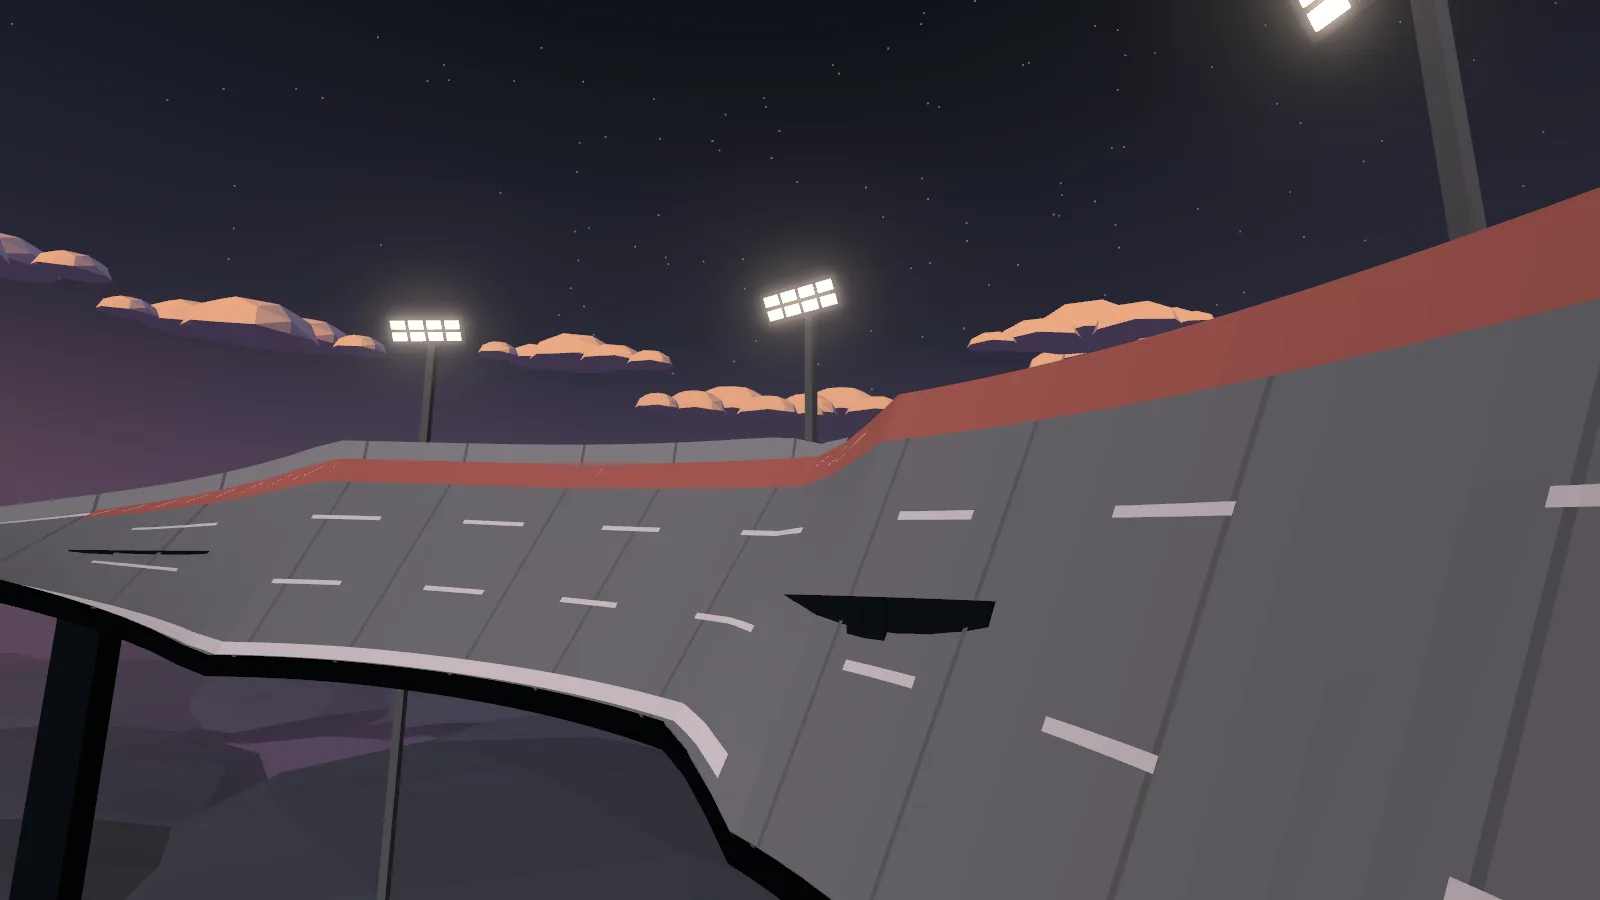
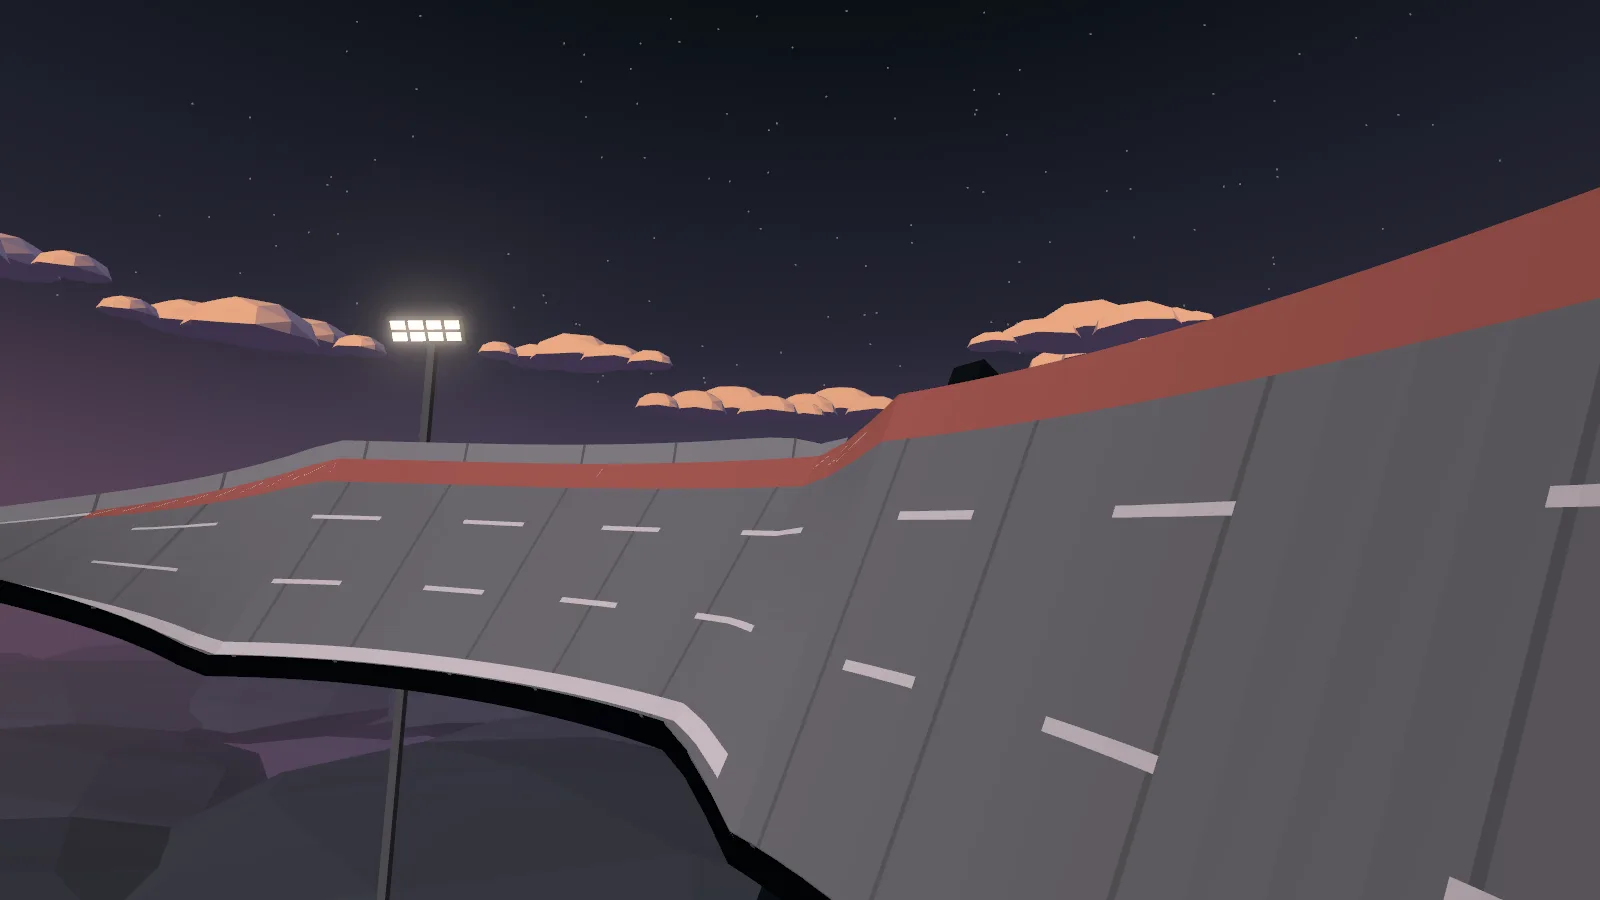
feat: Velodrome map options and its own menu picture
- knobs: Length (E), Gaps (A), Boost pads (V), Half-pipes (P), Wall ride switch (R); normal levels build the plain map
- menu picture re-shot on the merged map

diff --git a/src/worldgen/kinds/velodrome.ts b/src/worldgen/kinds/velodrome.ts
@@ -1,8 +1,11 @@
 import { generate_sky, SKY, type SkyRecipe } from "../sky";
 import { SIZE, VELODROME_VERSION, WorldKind } from "../types";
 import { kind_def, LAND_GRIP } from "./kind-def";
+import { knob, tune, type Knob } from "./options";
 
 const DEG = Math.PI / 180;
+const PIPES = { most: 2, bank: [28 * DEG, 35 * DEG], length: [140, 180] } as const;
+const WALL = { bank: [60 * DEG, 64 * DEG], hold: [40, 60] } as const;
 
 // docs/plan/wall-ride.md: 45-55° on the racing line, a 60-70° kick at each bowl's middle, under the 75° past which a soft car
 // can fall through the deck. The bus scrapes from 40° and is out; the Raijin scrapes its floor in a bowl but holds its line.
@@ -21,10 +24,18 @@ const VELODROME: SkyRecipe = {
   open: [0.1, 0.2],
   length: [2400, 5200],
   bowls: { angle: [Math.PI, 1.2 * Math.PI], radius: [40, 60], bank: [45 * DEG, 55 * DEG], kick: [60 * DEG, 70 * DEG] },
-  pipes: { most: 2, bank: [28 * DEG, 35 * DEG], length: [140, 180] },
-  wall: { bank: [60 * DEG, 64 * DEG], hold: [40, 60] },
+  pipes: PIPES,
+  wall: WALL,
   excludes: ["bus"],
 };
+
+const VELODROME_KNOBS: readonly Knob<SkyRecipe>[] = [
+  knob<SkyRecipe, SkyRecipe["length"]>({ field: "E", name: "Length", help: "How long a lap runs.", labels: ["Short", "Normal", "Long"], normal: 1, values: [[2400, 4400], VELODROME.length, [3800, 6400]], set: (r, length) => ({ ...r, length }) }),
+  knob<SkyRecipe, number>({ field: "A", name: "Gaps", help: "Gap jumps across open sky.", labels: ["None", "Normal", "More"], normal: 1, values: [0, VELODROME.gaps, 2], set: (r, gaps) => ({ ...r, gaps }) }),
+  knob<SkyRecipe, number>({ field: "V", name: "Boost pads", help: "Pads that kick the car forward.", labels: ["None", "Normal", "More"], normal: 1, values: [0, VELODROME.pads, 5], set: (r, pads) => ({ ...r, pads }) }),
+  knob<SkyRecipe, SkyRecipe["pipes"]>({ field: "P", name: "Half-pipes", help: "Straights that swing up one side, then the other.", labels: ["None", "Normal", "More"], normal: 1, values: [null, PIPES, { ...PIPES, most: 4 }], set: (r, pipes) => ({ ...r, pipes }) }),
+  knob<SkyRecipe, SkyRecipe["wall"]>({ field: "R", name: "Wall ride", help: "One bowl held steep with its high rail off.", labels: ["Off", "On"], switch: true, normal: 1, values: [null, WALL], set: (r, wall) => ({ ...r, wall }) }),
+];
 
 export const velodrome = kind_def({
   kind: WorldKind.VELODROME,
@@ -32,8 +43,8 @@ export const velodrome = kind_def({
   tag: "velo",
   version: VELODROME_VERSION,
   size: SIZE,
-  generate: (seed) => generate_sky(seed, VELODROME, VELODROME),
-  options: [],
+  generate: (seed, levels) => generate_sky(seed, tune(VELODROME, VELODROME_KNOBS, levels), VELODROME),
+  options: VELODROME_KNOBS,
   recipe: null,
   open_ground: false,
   rails: true,

diff --git a/src/worldgen/velodrome.test.ts b/src/worldgen/velodrome.test.ts
@@ -1,7 +1,7 @@
 /// <reference types="bun" />
 import { expect, test } from "bun:test";
 import { sweep } from "../sweep";
-import { generate_world } from "./kinds/kinds";
+import { generate_world, KINDS } from "./kinds/kinds";
 import { generate_sky, rail_open } from "./sky";
 import { DECK_STRIDE, RouteKind, WorldKind } from "./types";
 
@@ -58,6 +58,35 @@ test("every lap has a half-pipe: a straight that banks up each side in turn", ()
       return Math.max(...banks) > 25 * DEG && Math.min(...banks) < -25 * DEG;
     });
     expect(pipe).toBe(true);
+  }
+});
+
+const OPTIONS = KINDS.velodrome.options;
+const with_level = (name: string, level: number) => OPTIONS.map((o) => (o.name === name ? level : o.normal));
+
+function pipes(world: (typeof worlds)[number]): number {
+  const line = line_of(world);
+  const at = Array.from({ length: line.length / DECK_STRIDE }, (_, i) => i * DECK_STRIDE);
+  return (world.deck?.pieces ?? []).filter((p) => p.kind === "straight" && at.some((o) => line[o + 8] > p.s0 && line[o + 8] < p.s0 + p.length && Math.abs(line[o + 5]) > 25 * DEG)).length;
+}
+
+test("the normal levels build the plain velodrome", () => {
+  expect(generate_world(2, WorldKind.VELODROME, OPTIONS.map((o) => o.normal)).road).toEqual(generate_world(2, WorldKind.VELODROME).road);
+});
+
+test("Half-pipes none lays no pipe, Wall ride off leaves no steep bank without its rail", () => {
+  for (const seed of [0, 2, 3]) {
+    expect(pipes(generate_world(seed, WorldKind.VELODROME, with_level("Half-pipes", 0)))).toBe(0);
+    const world = generate_world(seed, WorldKind.VELODROME, with_level("Wall ride", 0));
+    const line = line_of(world);
+    for (let o = 0; o < line.length; o += DECK_STRIDE) expect(Math.abs(line[o + 5]) >= 60 * DEG && rail_open(world.deck?.open ?? [], line[o + 8], Math.sign(line[o + 5]))).toBe(false);
+  }
+});
+
+test("Boost pads and Gaps at none build a track without them", () => {
+  for (const seed of [0, 2, 3]) {
+    expect(generate_world(seed, WorldKind.VELODROME, with_level("Boost pads", 0)).deck?.pieces.filter((p) => p.kind === "pad")).toEqual([]);
+    expect(generate_world(seed, WorldKind.VELODROME, with_level("Gaps", 0)).deck?.pieces.filter((p) => p.kind === "gap")).toEqual([]);
   }
 });
 

diff --git a/src/worldgen/kinds/options.test.ts b/src/worldgen/kinds/options.test.ts
@@ -50,7 +50,7 @@ const read = (text: string, kind?: WorldKind) => {
 
 test("map code field letters and preset chars never move", () => {
   const fields = Object.fromEntries(Object.values(WorldKind).map((kind) => [kind, KINDS[kind].options.map((o) => o.field).join("")]));
-  expect(fields).toEqual({ island: "EQYJCXHTGPZW", sky: "EQAVF", desert: "JCXHDKZW", mainland: "W", alpine: "YJCHTGZW", tundra: "JCHTZ", volcano: "", rooftops: "", dunes: "", icecanyon: "", velodrome: "", lab: "" });
+  expect(fields).toEqual({ island: "EQYJCXHTGPZW", sky: "EQAVF", desert: "JCXHDKZW", mainland: "W", alpine: "YJCHTGZW", tundra: "JCHTZ", volcano: "", rooftops: "", dunes: "", icecanyon: "", velodrome: "EAVPR", lab: "" });
   expect(PRESETS.map((p) => `${p.char}${p.kind}`)).toEqual(["Cisland", "Ssky", "Ddesert", "Mmainland", "Aalpine", "Ttundra", "Vvolcano", "Rrooftops", "Bdunes", "Ficecanyon", "Wvelodrome", "Klab"]);
   for (const kind of Object.values(WorldKind)) {
     expect(new Set(fields[kind]).size).toBe(fields[kind].length);
